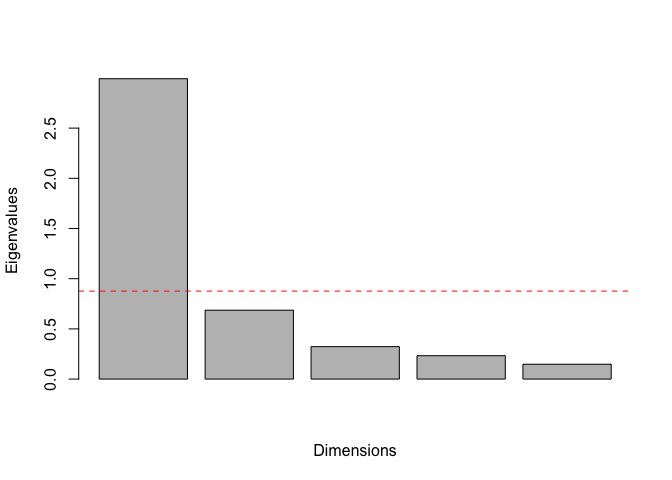
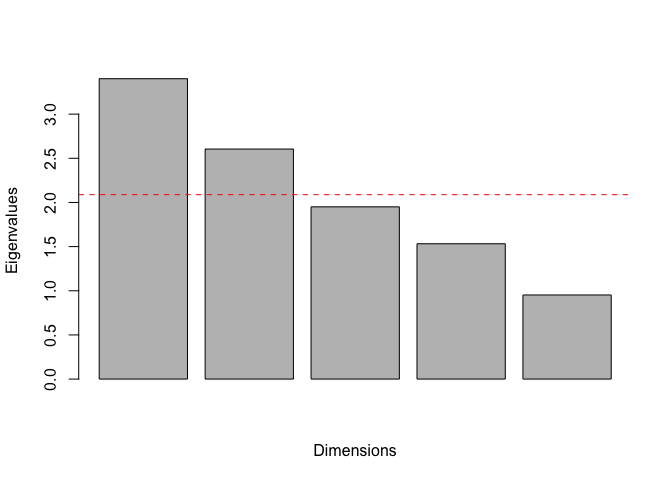
Worked through with ZAN, updated data file and code

diff --git a/Multivariate_SDS.md b/Multivariate_SDS.md
@@ -1,15 +1,17 @@
 ### Import the data
 
 ``` r
-vir <- read.csv("PhotosynQ_All_Data.csv")
+vir <- read.csv("2015_master.csv")
 str(vir)
 ```
 
-    ## 'data.frame':    96 obs. of  50 variables:
-    ##  $ Pass            : int  15 15 15 15 15 15 15 15 15 15 ...
-    ##  $ Range           : int  21 21 22 22 23 23 24 24 25 25 ...
+    ## 'data.frame':    96 obs. of  56 variables:
+    ##  $ x               : num  0.381 0.381 0.381 0.381 0.381 0.381 0.381 0.381 0.381 0.381 ...
+    ##  $ y               : num  1.52 4.57 7.62 10.67 13.72 ...
+    ##  $ Pass            : int  1 1 1 1 1 1 1 1 1 1 ...
+    ##  $ Range           : int  1 1 2 2 3 3 4 4 5 5 ...
     ##  $ Sample          : int  1 2 3 4 5 6 7 8 9 10 ...
-    ##  $ section         : Factor w/ 4 levels "NE","NW","SE",..: 4 4 4 4 4 4 4 4 2 2 ...
+    ##  $ Section         : Factor w/ 4 levels "NE","NW","SE",..: 4 4 4 4 4 4 4 4 2 2 ...
     ##  $ V3.DW           : num  0.63 0.75 0.6 0.77 0.79 0.63 0.93 0.91 0.69 0.55 ...
     ##  $ R5.DW           : num  4.41 4.76 8.07 6.48 3.78 5.68 5.45 3.06 5.74 4.97 ...
     ##  $ V3.foliar       : num  0 0 0 0 0 0 0 0 0 0 ...
@@ -28,17 +30,24 @@ str(vir)
     ##  $ PreSCN.cysts    : int  14 21 12 12 13 5 18 42 27 13 ...
     ##  $ PreSCN.eggs     : int  1140 1600 860 860 820 320 1280 3200 2080 880 ...
     ##  $ PreSCN.juvs     : int  200 240 60 100 100 20 240 480 400 140 ...
+    ##  $ PreSCN.eggsjuvs : int  1340 1840 920 960 920 340 1520 3680 2480 1020 ...
+    ##  $ PreSCN.total    : int  1354 1861 932 972 933 345 1538 3722 2507 1033 ...
+    ##  $ Pre.spiral      : int  4 0 8 8 0 24 16 24 24 0 ...
+    ##  $ Pre.lesion      : int  0 0 0 20 8 0 0 16 8 24 ...
+    ##  $ Pre.dagger      : int  0 0 0 0 0 0 0 0 0 0 ...
     ##  $ PostSCN.cysts   : int  15 29 13 13 7 8 33 22 7 51 ...
     ##  $ PostSCN.eggs    : int  3000 1880 1200 1120 560 840 1240 1680 680 2000 ...
     ##  $ PostSCN.juvs    : int  640 440 200 320 100 80 200 280 80 480 ...
     ##  $ PostSCN.eggsjuvs: int  3640 2320 1400 1440 660 920 1440 1960 760 2480 ...
     ##  $ PostSCN.total   : int  3655 2349 1413 1453 667 928 1473 1982 767 2531 ...
-    ##  $ PhotosynQ       : num  0.1 0.13 0.17 0.21 0.23 0.16 0.16 0.1 0.13 0.23 ...
+    ##  $ Post.spiral     : int  8 16 4 16 8 12 4 20 32 52 ...
+    ##  $ Post.lesion     : int  0 0 0 0 0 0 0 0 0 4 ...
+    ##  $ Pre.DNA         : num  65.4 64.1 69.2 79.5 55.5 ...
     ##  $ Pre.qPCR        : num  463 536 618 941 590 ...
+    ##  $ Pre.ratio       : num  0.00354 0.00418 0.00446 0.00592 0.00531 ...
     ##  $ V3.qPCR         : num  7.58 6.42 8.21 10 10.8 ...
     ##  $ R5.qPCR         : num  6.81 7.35 6.76 7.35 6.7 ...
     ##  $ Post.qPCR       : num  563 520 424 297 230 ...
-    ##  $ Yield           : num  36.5 36.5 42 42 40.8 ...
     ##  $ V3.Phi2         : num  0 0.00247 0.0111 0.01352 0.01357 ...
     ##  $ V3.PhiNPQ       : num  0 0.0456 0.0226 -0.0216 0.0123 ...
     ##  $ V3.PhiNO        : num  0 -0.04873 -0.03349 0.00681 -0.02685 ...
@@ -53,15 +62,12 @@ str(vir)
     ##  $ R1.NPQt         : num  0 0.183 -0.245 -0.147 -0.401 ...
     ##  $ R1.LEF          : num  0 -1.5976 2.416 -0.0152 4.9205 ...
     ##  $ R1.qL           : num  0 0.08411 0.00821 0.03931 0.041 ...
-    ##  $ Pre.spiral      : int  4 0 8 8 0 24 16 24 24 0 ...
-    ##  $ Pre.lesion      : int  0 0 0 20 8 0 0 16 8 24 ...
-    ##  $ Pre.dagger      : int  0 0 0 0 0 0 0 0 0 0 ...
 
 ``` r
 sample <- vir$Sample
-direction <- vir$section
+direction <- vir$Section
 
-var <- vir[,-c(1:3)]
+var <- vir[,-c(1:5)]
 nrow(var)
 ```
 
@@ -75,8 +81,8 @@ library(ape)
 library(ecodist)
 pre.plantvar <- grep("Pre", names(var))
 pre.plant <- var[,pre.plantvar]
+pre.plant.pca <- pre.plant[,-c(1,2,4,5,9,11)]
 #pre.plant <- cbind(pre.plant, pam.clust.R5$V5)
-pre.plant.pca <- pre.plant[,c(-1,-2)]
 n = nrow(pre.plant.pca)
 p = ncol(pre.plant.pca)
 rank.pre = min(n,p)
@@ -98,7 +104,7 @@ delta = function(D) {
 }
 
 library(vegan)
-pre.bray <- vegdist(pre.plant.pca, method = "bray")
+pre.bray <- vegdist(pre.plant.pca, method = "canberra")
 e.bray <- eigen(delta(pre.bray))
 
 #Now calculate the eigenvectors of the delta matrix
@@ -107,7 +113,7 @@ prop.pre <- as.matrix((pre.cmd$eig/sum(pre.cmd$eig))*100)
 prop.pre[1:rank.pre]
 ```
 
-    ## [1] 70.943047 16.267962  7.660185  5.518836  3.505549
+    ## [1] 31.303915 23.974388 17.950494 14.102658  8.766719
 
 ``` r
 barplot(pre.cmd$eig[1:rank.pre], main="",
@@ -116,14 +122,15 @@ lines(pre.cmd$values)
 abline(h = mean(pre.cmd$eig[1:rank.pre]), col = "red", lty = 2)
 ```
 
-![](Multivariate_SDS_files/figure-markdown_github/unnamed-chunk-2-1.png)<!-- -->
+![](Multivariate_SDS_files/figure-markdown_github/unnamed-chunk-2-1.png)
 
 ``` r
 pre.pco <- as.data.frame(pre.cmd$points)
-pre.pco$section <- vir$section
+pre.pco$Section <- vir$Section
+pre.pco$R5.DX <- vir$R5.DX
 
 library(ggplot2)
-plot3 <- ggplot(pre.pco, aes(x = V1, y = V2, color = section)) + 
+plot3 <- ggplot(pre.pco, aes(x = V1, y = V2, color = R5.DX)) + 
   geom_vline(xintercept = 0) +
   geom_hline(yintercept = 0) +
   geom_point(size = 5) +
@@ -157,43 +164,39 @@ library(gridExtra)
 grid.arrange(plot3, arrangeGrob(plot2, plot1, ncol = 2))
 ```
 
-![](Multivariate_SDS_files/figure-markdown_github/unnamed-chunk-2-2.png)<!-- -->
+![](Multivariate_SDS_files/figure-markdown_github/unnamed-chunk-2-2.png)
 
 ``` r
 pre.qpcr1 <- cor(pre.plant.pca$Pre.qPCR, pre.pco$V1)
 pre.juv1 <- cor(pre.plant.pca$PreSCN.juvs, pre.pco$V1)
 pre.spiral1 <- cor(pre.plant.pca$Pre.spiral, pre.pco$V1)
 pre.lesion1 <-  cor(pre.plant.pca$Pre.lesion, pre.pco$V1)
-pre.dagger1 <-  cor(pre.plant.pca$Pre.dagger, pre.pco$V1)
 pre.qpcr2 <- cor(pre.plant.pca$Pre.qPCR, pre.pco$V2)
 pre.juv2 <- cor(pre.plant.pca$PreSCN.juvs, pre.pco$V2)
 pre.spiral2 <- cor(pre.plant.pca$Pre.spiral, pre.pco$V2)
 pre.lesion2 <-  cor(pre.plant.pca$Pre.lesion, pre.pco$V2)
-pre.dagger2 <- cor(pre.plant.pca$Pre.dagger, pre.pco$V2)
 pre.qpcr3 <- cor(pre.plant.pca$Pre.qPCR, pre.pco$V3)
 pre.juv3 <- cor(pre.plant.pca$PreSCN.juvs, pre.pco$V3)
 pre.spiral3 <- cor(pre.plant.pca$Pre.spiral, pre.pco$V3)
 pre.lesion3 <-  cor(pre.plant.pca$Pre.lesion, pre.pco$V3)
-pre.dagger3 <- cor(pre.plant.pca$Pre.dagger, pre.pco$V3)
 
-data.frame1 <- data.frame(c(pre.qpcr1, pre.juv1, pre.spiral1, pre.lesion1, pre.dagger1))
-data.frame2 <- data.frame(c(pre.qpcr2, pre.juv2, pre.spiral2, pre.lesion2, pre.dagger2))
-data.frame3 <- data.frame(c(pre.qpcr3, pre.juv3, pre.spiral3, pre.lesion3, pre.dagger3))
+data.frame1 <- data.frame(c(pre.qpcr1, pre.juv1, pre.spiral1, pre.lesion1))
+data.frame2 <- data.frame(c(pre.qpcr2, pre.juv2, pre.spiral2, pre.lesion3))
+data.frame3 <- data.frame(c(pre.qpcr3, pre.juv3, pre.spiral3, pre.lesion3))
 
 corelations <- cbind.data.frame(data.frame1, data.frame2, data.frame3)
 colnames(corelations) <- c("Dim1", "Dim2", "Dim3")
-rownames(corelations) <- c("qPCR", "SCN", "Spiral", "Lesion", "Dagger")
+rownames(corelations) <- c("qPCR", "SCN", "Spiral", "Lesion")
 library(knitr)
 kable(corelations)
 ```
 
 |        |       Dim1|        Dim2|        Dim3|
 |--------|----------:|-----------:|-----------:|
-| qPCR   |  0.8380665|  -0.5205832|   0.0056947|
-| SCN    |  0.7879208|   0.5327588|  -0.0356407|
-| Spiral |  0.1946473|   0.1918144|   0.1052310|
-| Lesion |  0.2393085|   0.2311228|   0.0356229|
-| Dagger |  0.0674872|   0.0835663|   0.0181472|
+| qPCR   |  0.3150360|  -0.5641062|   0.0174347|
+| SCN    |  0.4583827|  -0.5701695|  -0.0241942|
+| Spiral |  0.5236592|  -0.2134894|   0.0355331|
+| Lesion |  0.4498116|  -0.1075225|  -0.1075225|
 
 ### Canonical correlation analysis
 
@@ -206,10 +209,10 @@ pre.plant <- var[,pre.plantvar]
 
 R5.plantvar <- grep("R5", names(var))
 R5.plant <- var[,R5.plantvar]
-R5.plant <- R5.plant[,c(1:6)]
+R5.plant <- R5.plant[,-c(4,5,6,7)]
 
-disease <- data.frame(R5.plant[,c(1,2,3)])
-pre <- pre.plant[,-c(1,2)]
+disease <- data.frame(R5.plant)
+pre <- pre.plant[,-c(1,2,4,5,9,11)]
 
 #install.packages("yacca")
 library(yacca)
@@ -259,15 +262,15 @@ pchisq(cca$chisq[4],cca$df[4],lower.tail = F)
 -cca$xstructcorr[,1]
 ```
 
-    ## PreSCN.juvs    Pre.qPCR  Pre.spiral  Pre.lesion  Pre.dagger 
-    ##  0.94141253  0.51178917 -0.02633386 -0.09556726  0.15302870
+    ## PreSCN.juvs  Pre.spiral  Pre.lesion  Pre.dagger    Pre.qPCR 
+    ##  0.94141253 -0.02633386 -0.09556726  0.15302870  0.51178917
 
 ``` r
 -cca$xstructcorr[,2]
 ```
 
-    ## PreSCN.juvs    Pre.qPCR  Pre.spiral  Pre.lesion  Pre.dagger 
-    ##  -0.1771668   0.3998948   0.3772380  -0.2394357   0.6614294
+    ## PreSCN.juvs  Pre.spiral  Pre.lesion  Pre.dagger    Pre.qPCR 
+    ##  -0.1771668   0.3772380  -0.2394357   0.6614294   0.3998948
 
 ``` r
 -cca$ystructcorr[,1]
@@ -312,9 +315,9 @@ colnames(cca.bar.Y2) <- c("CV", "Axis", "Dim", "Var")
 cca.bar <- rbind.data.frame(cca.bar.X1, cca.bar.X2, cca.bar.Y1, cca.bar.Y2)
 
 #Is there increasing nematode diversity and virguliforme numbers with incrasing disease??
-points1 <- data.frame(cca$canvary[,1], cca$canvarx[,1], R5.plant$R5.DX, vir$section)
+points1 <- data.frame(cca$canvary[,1], cca$canvarx[,1], vir$R5.DX, vir$Section)
 colnames(points1) <- c("y", "x", "R5.DX", "Section")
-points2 <- data.frame(cca$canvary[,2], cca$canvarx[,2], R5.plant$R5.DX, vir$section)
+points2 <- data.frame(cca$canvary[,2], cca$canvarx[,2], vir$R5.DX, vir$Section)
 colnames(points2) <- c("y", "x", "R5.DX", "Section")
 library(ggplot2)
 p3 <- ggplot(points1, aes(y = -y, x = -x, color = Section)) + 
@@ -351,4 +354,4 @@ library(Rmisc)
 multiplot(p1, p3, p2, p4, cols = 2)
 ```
 
-![](Multivariate_SDS_files/figure-markdown_github/unnamed-chunk-4-1.png)<!-- -->
+![](Multivariate_SDS_files/figure-markdown_github/unnamed-chunk-4-1.png)
